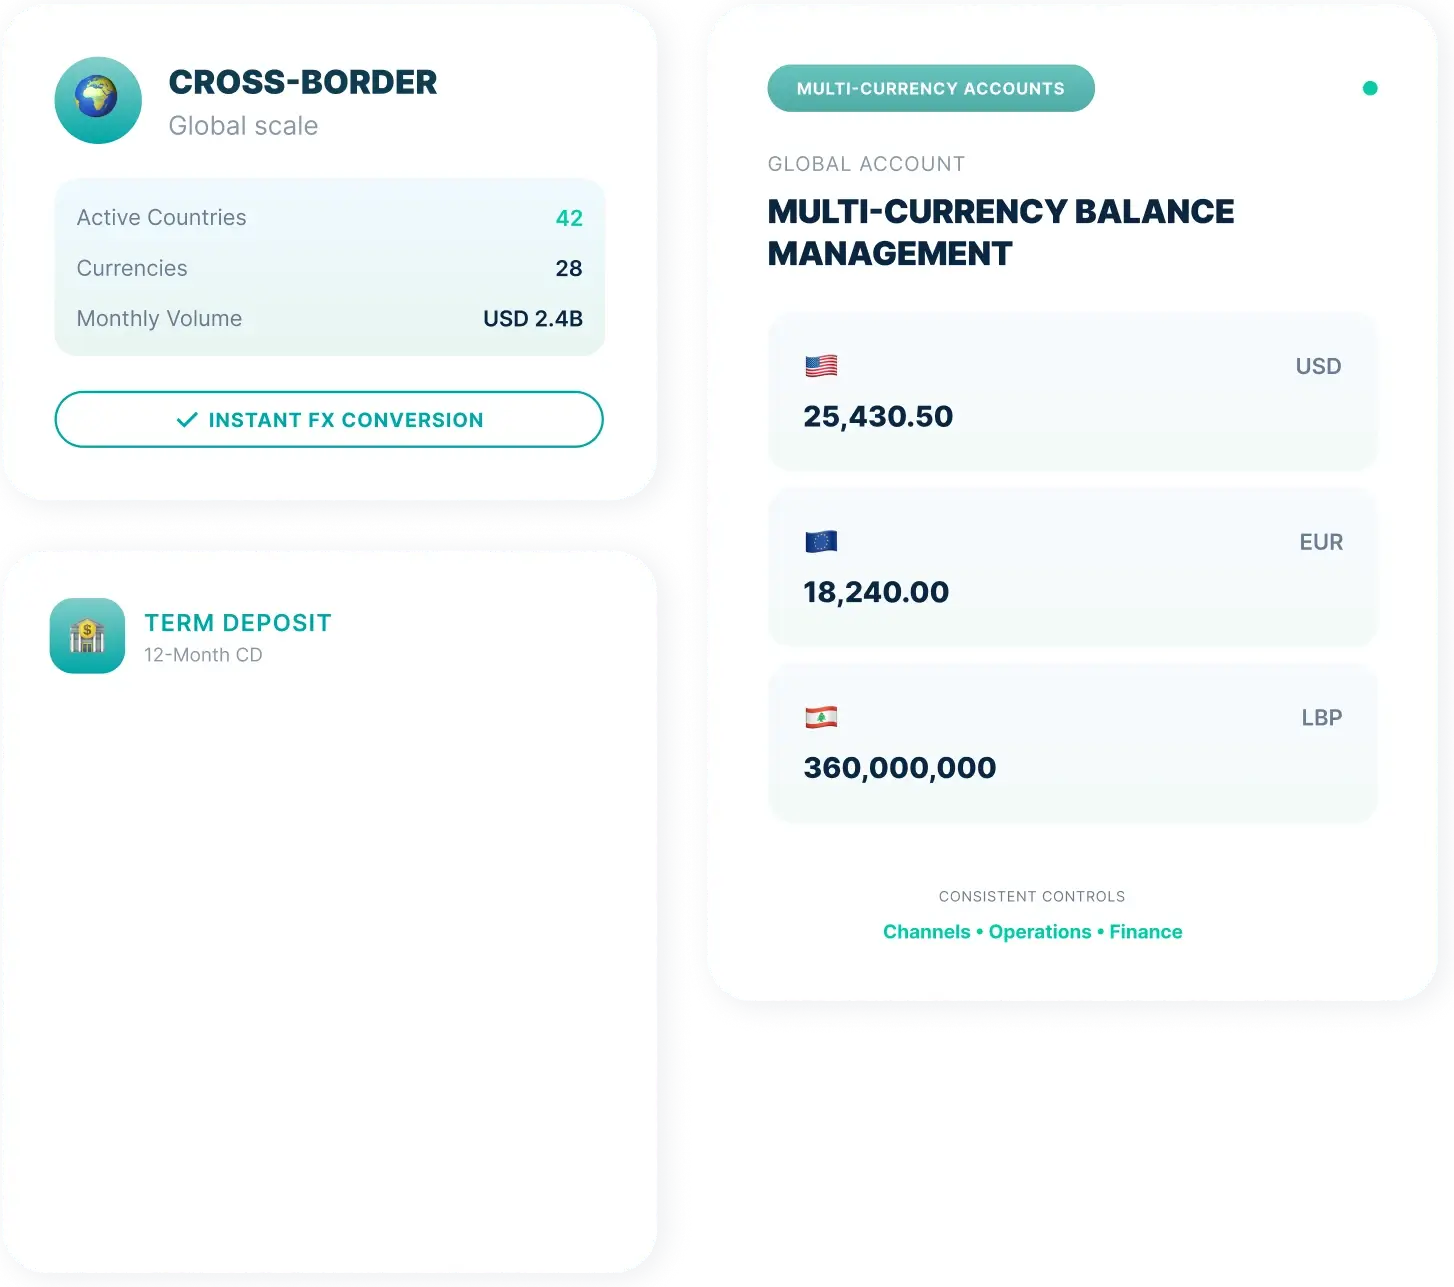
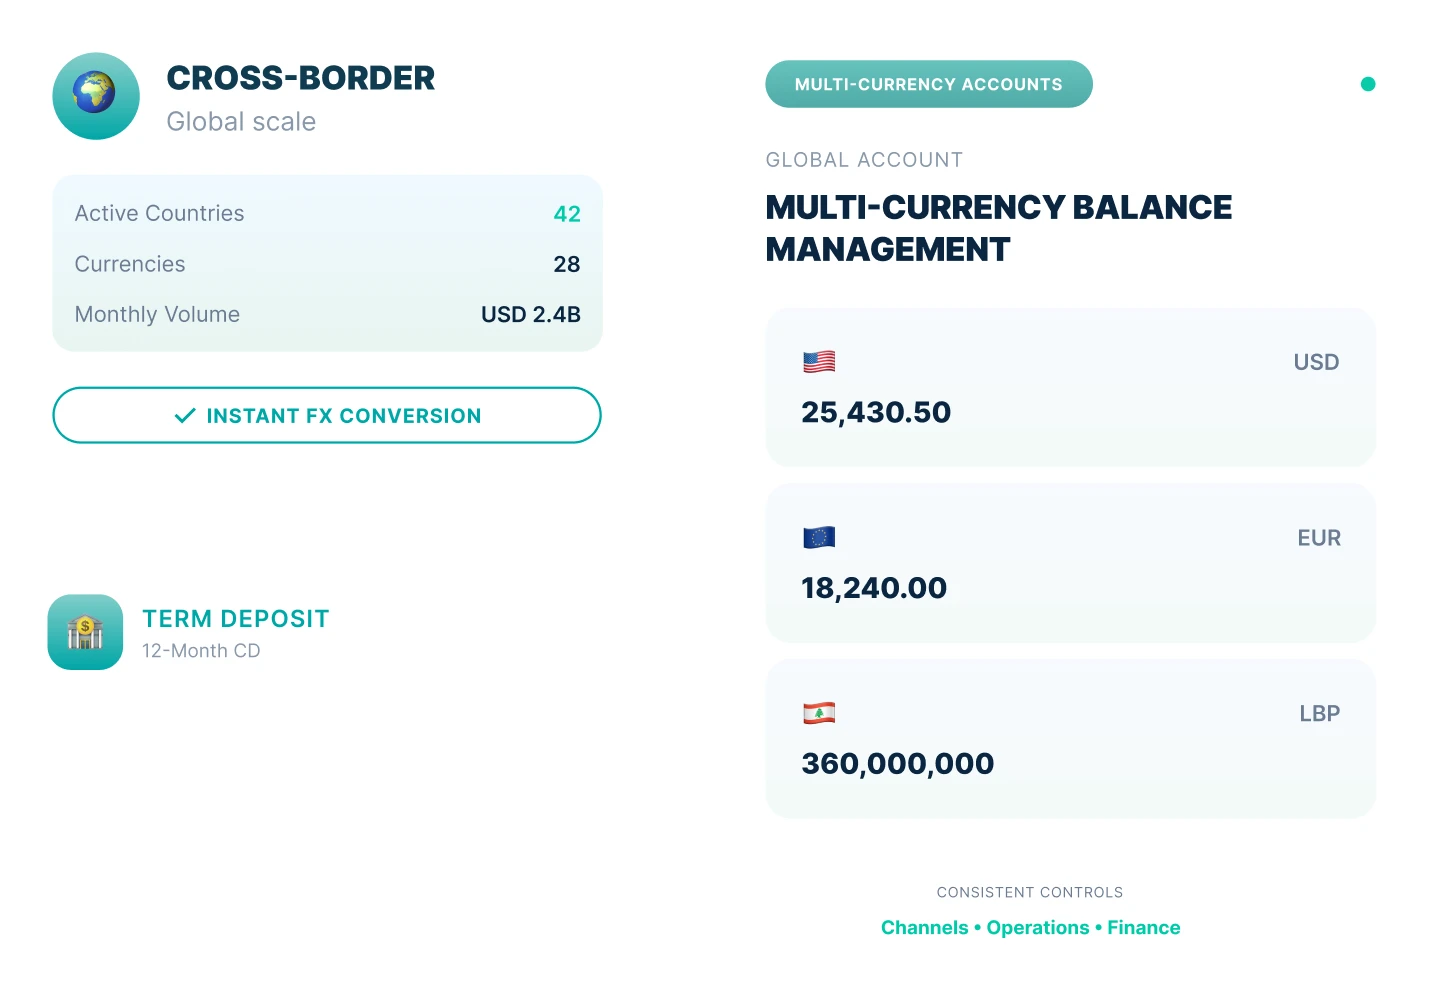
.

diff --git a/app/pages/products/digital-core-banking/accounts/multi-currency-accounts.vue b/app/pages/products/digital-core-banking/accounts/multi-currency-accounts.vue
@@ -6,7 +6,7 @@
     :button-two="{ text: 'Contact us', link: '/' }"
   />
 
-  <SectionTextImageFull
+  <SectionTextImage
     title="Multi-Currency Accounts"
     description="Arkam’s Digital Core Banking system enables banks to manage multi-currency balances with consistent controls across channels, operations and finance. The platform supports global account management, instant IBAN allocation, and account segmentation so institutions can scale cross-border propositions while keeping governance, reporting and auditability intact."
     image="/images/multi-currency-accounts.webp"
@@ -17,7 +17,7 @@
 
 <script setup>
 import HeroTextOnly from "../../../../components/hero/HeroTextOnly.vue";
-import SectionTextImageFull from "../../../../components/sections/SectionTextImageFull.vue";
+import SectionTextImage from "../../../../components/sections/SectionTextImage.vue";
 import SectionTextListImageItems from "../../../../components/sections/SectionTextListImageItems.vue";
 
 useSeoMeta({
@@ -63,13 +63,6 @@ const AlternateSections = [
     description:
       "Arkam supports automated IBAN allocation as part of digital onboarding and account creation flows. The platform assigns identifiers according to the institution’s numbering scheme and governance rules—helping banks reduce manual steps, speed up activation, and keep controls auditable.",
     image: "/images/instant-iban-allocation.webp",
-    items: [
-      {
-        title: "Kept intentionally conservative:",
-        description:
-          "“instant IBAN allocation” is framed as automated assignment aligned to the bank’s numbering scheme, without claiming universal country coverage.",
-      },
-    ],
     itemsGrid: [
       {
         title: "Automated IBAN allocation",

diff --git a/app/components/sections/SectionTextImage.vue b/app/components/sections/SectionTextImage.vue
@@ -1,0 +1,25 @@
+<template>
+  <section class="bg-dark-bg">
+    <div class="container">
+      <div
+        class="flex max-lg:flex-col max-lg:gap-16 lg:gap-16 xl:gap-30 2xl:gap-50 lg:justify-between lg:items-center"
+      >
+        <div class="heading lg:w-1/3">
+          <h2>{{ title }}</h2>
+          <p>{{ description }}</p>
+        </div>
+        <div
+          class="lg:w-3/5 bg-tertiary max-lg:rounded-2xl rounded-2xl max-lg:p-3 lg:p-6"
+        >
+          <img class="w-full" :src="image" />
+        </div>
+      </div>
+    </div>
+  </section>
+</template>
+
+<script setup>
+const props = defineProps(["title", "description", "image"]);
+</script>
+
+<style lang="scss" scoped></style>

diff --git a/app/components/sections/SectionTextListImageItems.vue b/app/components/sections/SectionTextListImageItems.vue
@@ -7,12 +7,12 @@
         class="flex max-lg:flex-col-reverse max-lg:gap-6 lg:gap-24 lg:justify-between lg:items-center"
         :class="index % 2 != 0 && 'lg:flex-row-reverse'"
       >
-        <div class="heading w-full">
+        <div class="heading lg:w-[55%]">
           <h2>{{ item.title }}</h2>
           <p v-html="item.description" />
           <List :dark="dark" :items="item.items" :itemsGrid="item.itemsGrid" />
         </div>
-        <div class="w-full">
+        <div class="w-[45%]">
           <img class="rounded-2xl w-full" :src="item.image" alt="" />
         </div>
       </div>
